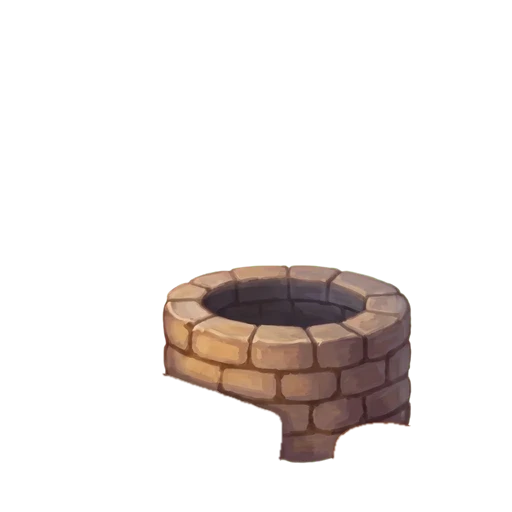
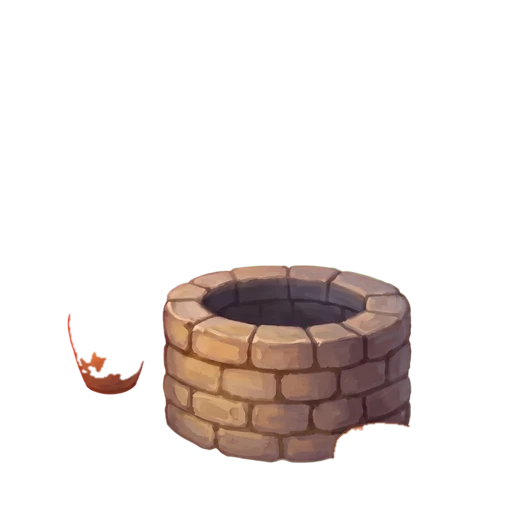
feat: a camp layer source can hold its object alone; the well's does
Claude-Session: https://claude.ai/code/session_01YJigLPpYB6wrpcWWFzGMmm

Changed region(s): [[0.3125, 0.7188, 0.625, 0.9062], [0.125, 0.625, 0.2812, 0.7812], [0.6875, 0.8125, 0.7188, 0.8438]]

diff --git a/scripts/campLayers.ts b/scripts/campLayers.ts
@@ -24,14 +24,15 @@ import { writeShadow } from "./importCamp"
 const __dirname = dirname(fileURLToPath(import.meta.url))
 const ROOT = join(__dirname, "..")
 
-/** `with` is the picture holding the object, `without` the one it is cut against; both are piece ids. */
-export type LayerSource = { with?: string; without?: string }
+/** `with` is the picture holding the object, `without` the one it is cut against; both are piece ids. A `without`
+ * of null takes all of `with`: a layer source painted with the object alone. */
+export type LayerSource = { with?: string; without?: string | null }
 
 export const LAYER_SOURCES: Record<string, LayerSource> = {
   // The star cloth was painted under the compass, so its own edit (no compass) gives it whole, on the bare table.
   starMap: { with: "starMap-cloth", without: "table" },
-  // The well was painted behind the trough; its own edit without the trough gives its wall whole.
-  well: { with: "well-alone", without: "secondJar" },
+  // The well was painted behind the trough and the gourd; its own edit holds the well alone, whole.
+  well: { with: "well-alone", without: null },
   // The tent's canvas is the windbreak's colour, so against the windbreak it would come out full of holes.
   tent: { without: "blanket" },
   // Each growth stage of the first palm is the whole plant, so each is cut against the bare bed.
@@ -148,7 +149,10 @@ export const layerJobs = (catalogue: CampCatalogue, sources: Record<string, Laye
         ? step.pieces.map(piece => ({
             id: piece.id,
             with: sources[piece.id]?.with ?? piece.id,
-            without: sources[piece.id]?.without ?? spot.steps[i - 1]?.pieces[0].id,
+            without:
+              sources[piece.id]?.without === undefined
+                ? spot.steps[i - 1]?.pieces[0].id
+                : (sources[piece.id].without ?? undefined),
           }))
         : []
     )

diff --git a/scripts/campLayers.spec.ts b/scripts/campLayers.spec.ts
@@ -86,6 +86,14 @@ describe("layerJobs", () => {
       { id: "ghost", with: "ghost", without: "lid" },
     ])
   })
+
+  it("takes a source's picture whole when it is cut against nothing", () => {
+    expect(layerJobs(catalogue, { lid: { with: "lidAlone", without: null } })).toContainEqual({
+      id: "lid",
+      with: "lidAlone",
+      without: undefined,
+    })
+  })
 })
 
 describe("campLayers", () => {

diff --git a/docs/game-design/camp-art-prompts.md b/docs/game-design/camp-art-prompts.md
@@ -833,13 +833,14 @@ Attach: `art/masters/camp/sprout.webp`
 
 ### 92. `camp/well-alone` — Layer source: the well without the trough in front
 
-The well was painted behind the trough, so cut against the jars it would have a notch where the trough stood.
-Edit of `camp/well`.
+The well was painted behind the trough and the gourd, so cut against the jars it would have notches where
+they stood. Its layer is this picture whole. Edit of `camp/well`.
 
 Attach: `art/masters/camp/well.webp`
 
-> [edit] Remove this, and only this: the long low stone water trough in front of the well. Where it stood,
-> paint the rest of the round stone well wall as it continues; elsewhere show the #ff00ff background.
+> [edit] Remove everything except the round stone well: the long low stone trough, both jars and the gourd
+> bowl. Where they covered the well, paint the rest of its stone wall as it continues; elsewhere show the
+> #ff00ff background. The well itself stays exactly where and as it is.
 
 ### 91. `camp/starMap-cloth` — Layer source: the star cloth without the compass
 
